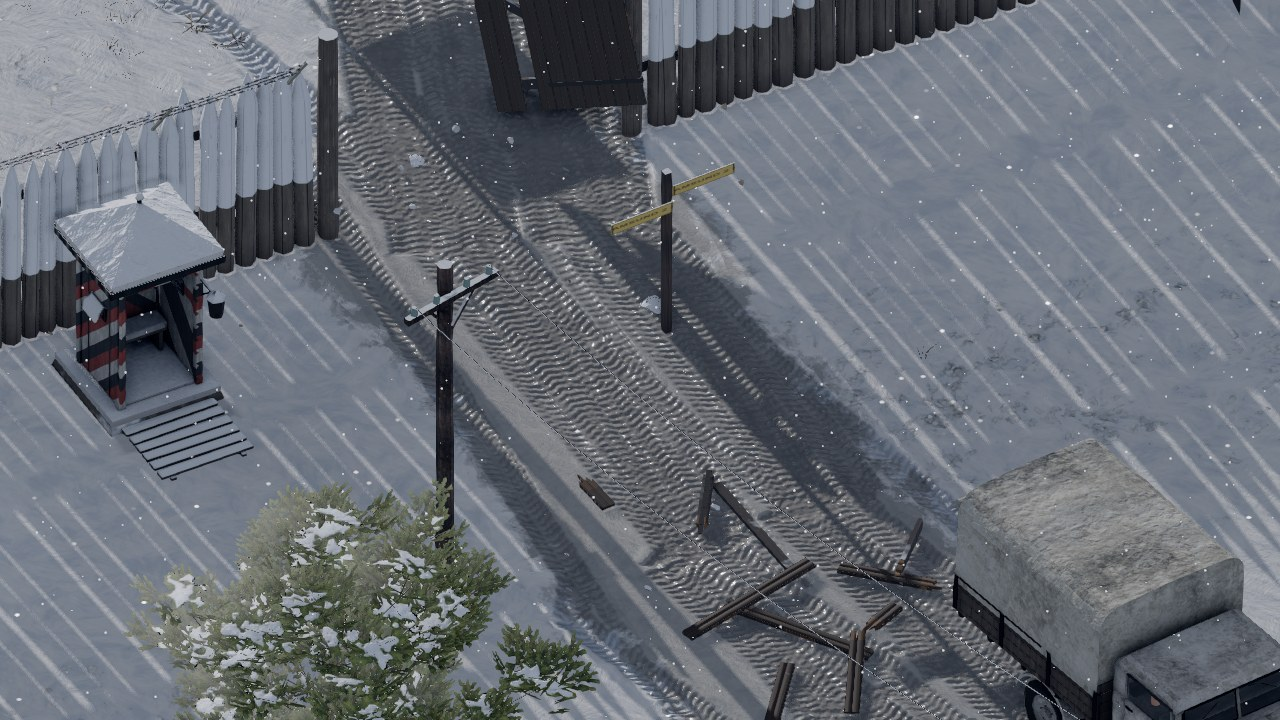
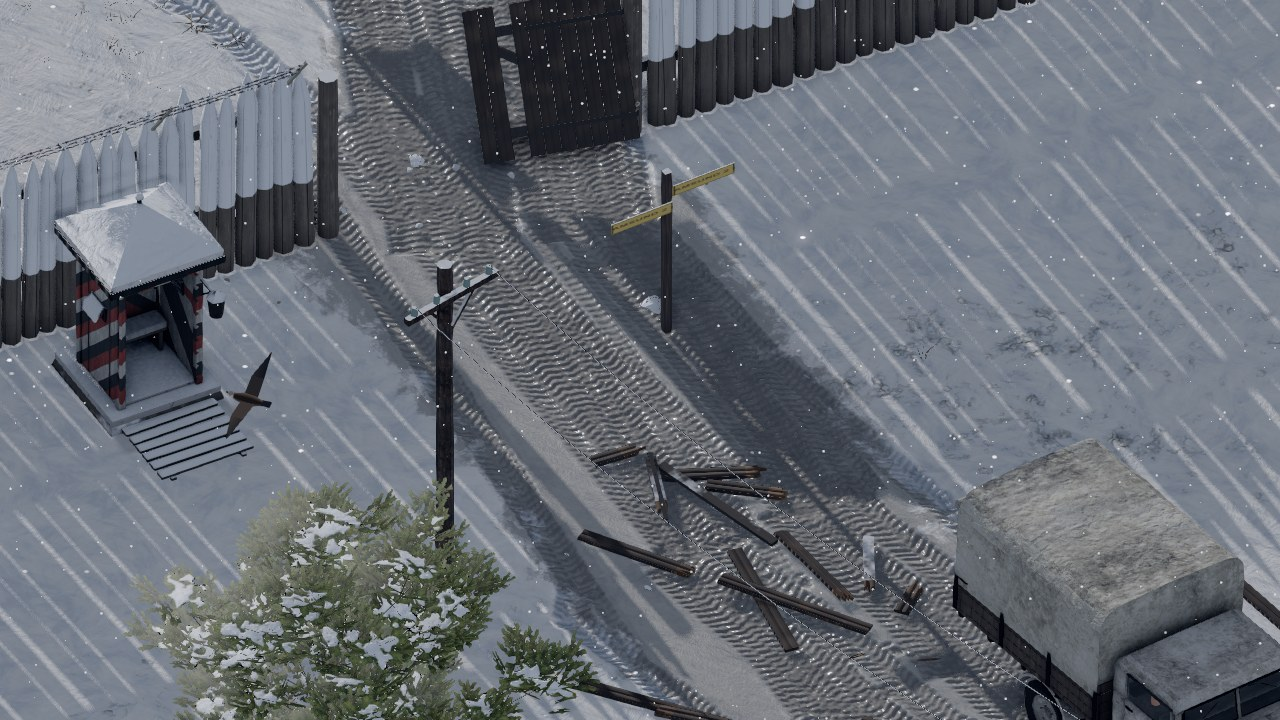
Sync from dev master e613ae2fa: Docs: gate seat fix merged
Claude-Session: https://claude.ai/code/session_01VLerBwZuqghUz5tSfkGuoS

diff --git a/src/world/placement-visual.js b/src/world/placement-visual.js
@@ -423,7 +423,10 @@ const _n = new THREE.Vector3(), _e1 = new THREE.Vector3(), _e2 = new THREE.Vecto
  * Low walkable surfaces of a structure's visual (steps, ramps, porch boards, snow skirts, berms): the highest
  * upward-facing triangle point per `cell` (m) square, for triangles lying entirely below `maxY` m. Feeds the
  * visual ground height (units' feet stand on these instead of sinking through them). `wade`: leave out the snow lying
- * lower than this (SNOW_WADE: the steps and porches themselves, not the drifts on them).
+ * lower than this (SNOW_WADE: the steps and porches themselves, not the drifts on them). Subtrees marked
+ * `userData.surface === false` are left out: parts that move (a gate's leaves, a boom's pole with its HALT plate and
+ * counterweight) are nobody's ground (the plate's underside, 0.66 m up under a shut boom, was: the M2 / M4 booms sat
+ * on it, 0.66 m in the air, and a man passing under an open boom stepped up onto it).
  * @param {THREE.Object3D} root @param {Map<string, number>} [into] accumulates across structures
  * @returns {Map<string, number>} "i,j" → world y
  */
@@ -432,7 +435,7 @@ function lowSurfacesRaw(root, o = {}, into = new Map()) {
   root.updateMatrixWorld(true);
   const put = (x, z, y) => { const k = `${Math.floor(x / cell)},${Math.floor(z / cell)}`; const p = into.get(k); if (p === undefined || y > p) into.set(k, y); };
   const visit = (nd) => {
-    if (nd.userData?.clip === false || (!nd.visible && !/^lod\d$/.test(nd.name))) return;
+    if (nd.userData?.clip === false || nd.userData?.surface === false || (!nd.visible && !/^lod\d$/.test(nd.name))) return;
     if (/^lod[12]$/.test(nd.name)) {
       const sib = nd.parent?.children || [];
       if (nd.name !== ['lod0', 'lod1', 'lod2'].find((nm) => sib.some((c) => c.name === nm))) return;
@@ -501,7 +504,7 @@ export function visualSignature(root) {
   const h = hasher();
   let ok = true;
   const visit = (n) => {
-    h.str(n.name); h.num(n.visible ? 1 : 0); h.num(n.userData?.clip === false ? 1 : 0); h.num(n.children.length);
+    h.str(n.name); h.num(n.visible ? 1 : 0); h.num(n.userData?.clip === false ? 1 : 0); h.num(n.userData?.surface === false ? 1 : 0); h.num(n.children.length);
     if (n.isMesh) {
       const g = n.geometry, pos = g?.attributes?.position;
       const gh = pos ? geometryHash(g) : null;

diff --git a/src/render/gate-smash-visuals.js b/src/render/gate-smash-visuals.js
@@ -62,8 +62,11 @@ export class GateSmashVisuals {
   _groundY(x, z) { const g = this.world.groundY; return typeof g === 'function' ? (g.call(this.world, x, z) || 0) : 0; }
 
   /**
-   * Intact gate on the ground at its centre (the physics frame uses the same height); each post is set into the ground
-   * under it (25 cm deep), so on a slope the downhill post does not hang in the air.
+   * Intact gate on the ground at its centre (the physics frame uses the same height: world.groundY, which never counts
+   * the gate's own moving parts — art/breakable-gates.js `userData.surface`); a post standing where the bare terrain
+   * drops away is stretched down into the ground under it (25 cm deep), so on a slope the downhill post does not hang in
+   * the air. On level ground the posts stay as built (a stretch scaled their fittings too: the fork rest's fork 5 cm
+   * taller than the layout the body-clearance rules read, the pivot pin 5 cm under the pole's axis, the footings buried).
    */
   _seat(rec) {
     const gy = this._groundY(rec.gate.x, rec.gate.z), rot = rec.gate.params?.rot ?? 0, c = Math.cos(rot), s = Math.sin(rot);
@@ -72,7 +75,9 @@ export class GateSmashVisuals {
       const m = rec.model.pieces.get(p.id);
       if (p.kind !== 'post' || !m) continue;
       const x = rec.gate.x + c * p.c[0], z = rec.gate.z + s * p.c[0], T = this.world.terrain; // the bare terrain under it
-      const top = p.c[1] + p.h[1], bot = Math.min(0, (T?.groundY ? T.groundY(x, z) : this._groundY(x, z)) - gy) - 0.25;
+      const drop = gy - (T?.groundY ? T.groundY(x, z) : this._groundY(x, z));
+      if (drop <= 0.02) { m.scale.y = 1; m.position.y = p.c[1]; continue; }
+      const top = p.c[1] + p.h[1], bot = -drop - 0.25;
       m.scale.y = (top - bot) / (2 * p.h[1]);
       m.position.y = (top + bot) / 2;
     }

diff --git a/src/art/breakable-gates.js b/src/art/breakable-gates.js
@@ -180,7 +180,9 @@ function boomPost(p) {
   if (p.gatePost) { // log gate post: tapering trunk, axe-pointed top, two iron bands, a tarred foot
     add(new THREE.CylinderGeometry(hx * 0.9, hx, 2 * hy - 0.22, 12), dressingMaterial('logs'), 0, -0.11, 0);
     add(new THREE.ConeGeometry(hx * 0.9, 0.22, 12), dressingMaterial('logs'), 0, hy - 0.11, 0);
-    add(new THREE.CylinderGeometry(hx * 1.02, hx * 1.04, 0.5, 12), dressingMaterial('logsTarred'), 0, -hy + 0.25, 0);
+    // (the tarred band's top cap, 0.5 m up inside its rim round the log, is no step: a man in M2's footway beside the
+    // far post was lifted 0.5 m onto it, placement-visual lowSurfaces)
+    add(new THREE.CylinderGeometry(hx * 1.02, hx * 1.04, 0.5, 12), dressingMaterial('logsTarred'), 0, -hy + 0.25, 0).userData.surface = false;
     for (const y of [hy - 0.55, -hy + 1.0]) add(new THREE.CylinderGeometry(hx * 0.95, hx * 0.95, 0.05, 12), ironMat(), 0, y, 0);
     return g;
   }
@@ -301,6 +303,11 @@ export function buildBreakableGate(def) {
     g.position.set(piv[0], layout.pivot ? piv[1] : 0, piv[2]);
     g.userData.pivot = piv;
     g.userData.side = hinge && !layout.pivot ? Math.sign(hinge.at[0]) || -1 : -1;
+    // a leaf swings (a boom rises): never ground to stand on (placement-visual lowSurfaces). The HALT plate's underside
+    // under a shut boom, 0.66 m up, was: world.groundY at the gate centre read 0.66, so the model (seated there,
+    // render/gate-smash-visuals.js, and its physics frame) stood 0.66 m in the air, its posts stretched to the ground
+    // (M2 e15 aiming beside gate_se: his rifle 6.5 cm into a fork rest that reached 1.9 m, clipping seed 11)
+    g.userData.surface = false;
     leaves.push(g); root.add(g);
   }
   for (const p of layout.pieces) {

diff --git a/docs/clipping-audit.md b/docs/clipping-audit.md
@@ -365,6 +365,7 @@ workflow (Rapier); they are logged, not asserted.
 | Raised walks | M2 garrison squad on `walk_sw` inside the palisade stakes (seed 11) | walk cells within 0.3 m of what stands on the walk (stakes, a parapet, a railing) are nav-blocked; where that would split the walk, half the margin, else only the cells the stakes stand in | `map-builder` `stampWalkClearance` |
 | Raised decks (after master's dam front) | M3 `e2` / `e3` aiming and `e8` running on the dam crest with a shin in its 0.6 m downstream parapet (0.055–0.062 m, both seeds): the crest became a raised walk (grid elevation 7.28 m) which neither the deck cover (decks at ground level) nor the raised-walk clearance (not decks) saw | the raised-walk clearance covers raised decks too (a dam crest, a high bridge); the crossing and every path over the dam are unchanged | `map-builder` `stampWalkClearance` |
 | Boom barrier footway | M2 `barr_out` running through `gate_se`'s footway, an elbow in the fork rest (0.054 m, seed 11); `barr_camp` aiming in the footway with his rifle in the far gate post (0.136 m) | the fork rest and the far gate post keep the 0.3 m body clearance on the footway's side (the footway stays ≥ 0.9 m); a gate's fixed posts (pivot post, fork rest, log gate posts) are body solids (`world/body-clearance.js`) that stand on when the boom is smashed, those from hip height up 0.2 m wider, the fork rest also covering the resting pole tip (a running man's hands, arms and rifle, a crawler's drawn-up knee; `barr_camp`'s hand in the pole tip, 0.065 m; `barr_camp` running past the far post, 0.101 m; the diver crawling past the pivot post, 0.111 m); an aiming man treats the boom's pole line above its rest height as solid (the pole swings up through it whenever the gate opens: M2 `e7`'s rifle in the rising tip, 0.055 m) | `map-builder` `stampBarrierGaps` / `stampBodySolids` |
+| Boom barriers seated on their own HALT plate (2026-10-12, master's clipping run: M2 `e15 × gate_se` 0.065 m @163 s, seed 11) | `e15` in COMBAT beside `gate_se`'s fork rest, outside the gate, aiming across it with his 0.6 m step-back spent: his rifle 6.5 cm into a fork rest 1.9 m tall. The low surfaces (feet heights, `world.groundY`) took the HALT plate's underside under the shut boom (0.66 m), the counterweight's bottom (0.75 m) and a log gate post's tarred band (0.5 m) for ground: the intact model and its physics frame sat 0.66 m up on M2 and on the three M4 booms, the posts stretched to the terrain (fork 1.9 m, pivot cap 2.1 m), a man under an open boom stepped 0.66 m up and one in M2's footway 0.5 m | a gate's leaves (pole, plate, counterweight, plank / wire leaves) and a gate post's band are no surface (`userData.surface = false`, skipped by `lowSurfaces`); on level ground the posts stay as built (a stretch scaled their fittings: the fork 5 cm taller than the layout the rules read, the pivot pin 5 cm under the pole axis) | `art/breakable-gates.js`, `placement-visual.lowSurfaces`, `render/gate-smash-visuals._seat`; tests `gate-seat`, unit `gate-surface` |
 | Rifles at solid props | b00 `yard_guard` aiming with his barrel in the fuel tank `tank1` (0.08 m, seed 11): the rifle check only knew grid blocks, hulls and wagons, and the tank's visual reaches past its footprint | the body solids carry their height (`top`); an aiming man steps back (a quick 1.6 m/s half step, done before the rifle is up) from a solid prop taller than his shoulder too, and the barrel is sampled ±0.25 m across and out to the muzzle (1.15 m; a wagon or fuel tank with 5 cm to spare) (the rifle sits off the body centre; M2 `e7` with his muzzle in a gate post) | `map-builder` `stampBodySolids`, `Unit._keepWeaponRoom` |
 | Lying men turning | b00 Sapper crawling along the fuel tank `tank1`, hands in its side (0.088 m, seed 7): sliding along it, the body guard turned his sim heading 119° in one tick; the shown body (art/prone-ground.js) follows at 112°/s and swept through the tank on the short way round | a crawler's heading (following his path, or sliding along an obstacle) turns no faster than his body is shown turning (M2 diver: his lagging legs swept through the barrier's pivot post); a settle turn (turned clear of a hull in place) is shown pivoting about his hips, as its sweep was checked | `Unit._guardBody`, `Unit._arrive`, `art/prone-ground.js` (`pivot`) |
 | Stairs (found on the way: master's M2 access platform) | the wider body clearance and the raised-walk clearance closed the access platform's stair foot and two of its treads | a stair's graded run and the step onto it at either end are never stamped (its hand rails are walk-only footprints already); its two ends are ways `keepWays` keeps; the raised-walk clearance skips ramp cells and keeps every way off a raised piece | `map-builder` `stampVisualNav`, `rampEnds`, `stampWalkClearance` |

diff --git a/docs/PROGRESS.md b/docs/PROGRESS.md
@@ -626,3 +626,4 @@ Contract: `docs/ARCHITECTURE.md`. Research: `docs/research.md`. Design: `docs/de
 - 2026-10-12T12:55 PDT Game rules MERGED (fix/game-rules-harpoon-still-crawler a982c426d incl. master 0141b5ed4: harpoon 9 m + barrel reach, still man noticed, rowed hull watched, height-based sight = cone, commando shots by the same height rule, Sniper kneels to fire, plateau structures from the plateau, idle starts unseen 130 s in every mission (M3/M6/M10/M13/M15/M18/M19 starts or halts moved), cones sliced in a 0.5 ms budget (M3/M5/M8 p90 ≤ 0.6 ms, mean ≤ master+0.05), plateau map once per mission; unit 2030/0; GPU detection, ai, missions13, smoke-missions; M0/M1/M2/M3/M14 solutions win 0 det). Publishing.
 - 2026-10-12T13:30 PDT hourly: art/m19 MERGED by the art workflow (1c7466ecd, Oldenburg coal mine + V-2 base); all agents + both workflows active. Publishing.
 - 2026-10-12T14:20 PDT art/m06 MERGED by the art workflow (3d11b3ea5, Masi, Finnmark). Debug stats graph MERGED (feat/debug-stats-graph dfbf5e800: −/+ minimize to one line (statsMin option), 15 s perf graph src/debug/perf-graph.js (frame bars, CPU line, GPU MB), background .4 + text shadow, video mode shows it minimized and captions avoid it, ?test=1 / ?debug=clean / capture-video.mjs keep it hidden; unit 2025/0; 13 debug-* GPU + render-budget ok). Publishing.
+- 2026-10-12T14:40 PDT Gate seat fix MERGED (fix/m02-gate-clip c3766721d incl. master 63ad3a42f: gate leaves + tar band userData.surface=false, placement-visual skips them, _seat keeps posts on level ground; M2/M4 booms were 0.66 m up; new GPU gate-seat + unit gate-surface; gate-smash plank-variant settle limit 4.5→5 s (test-only gate now on the ground); unit 2016/0; GPU gate-seat, gate-smash, m2-barrier, stuck-orders, m00/m01/m02/m03/m14 solutions ok). clipping still FAILS on master at M3 t=0.5 s: diver / GB × start_wall 0.11 m (game-rules starts at z 6.75, 0.95 m from the wall, then lie-down) → sent to the gate-clip agent. Publishing.
